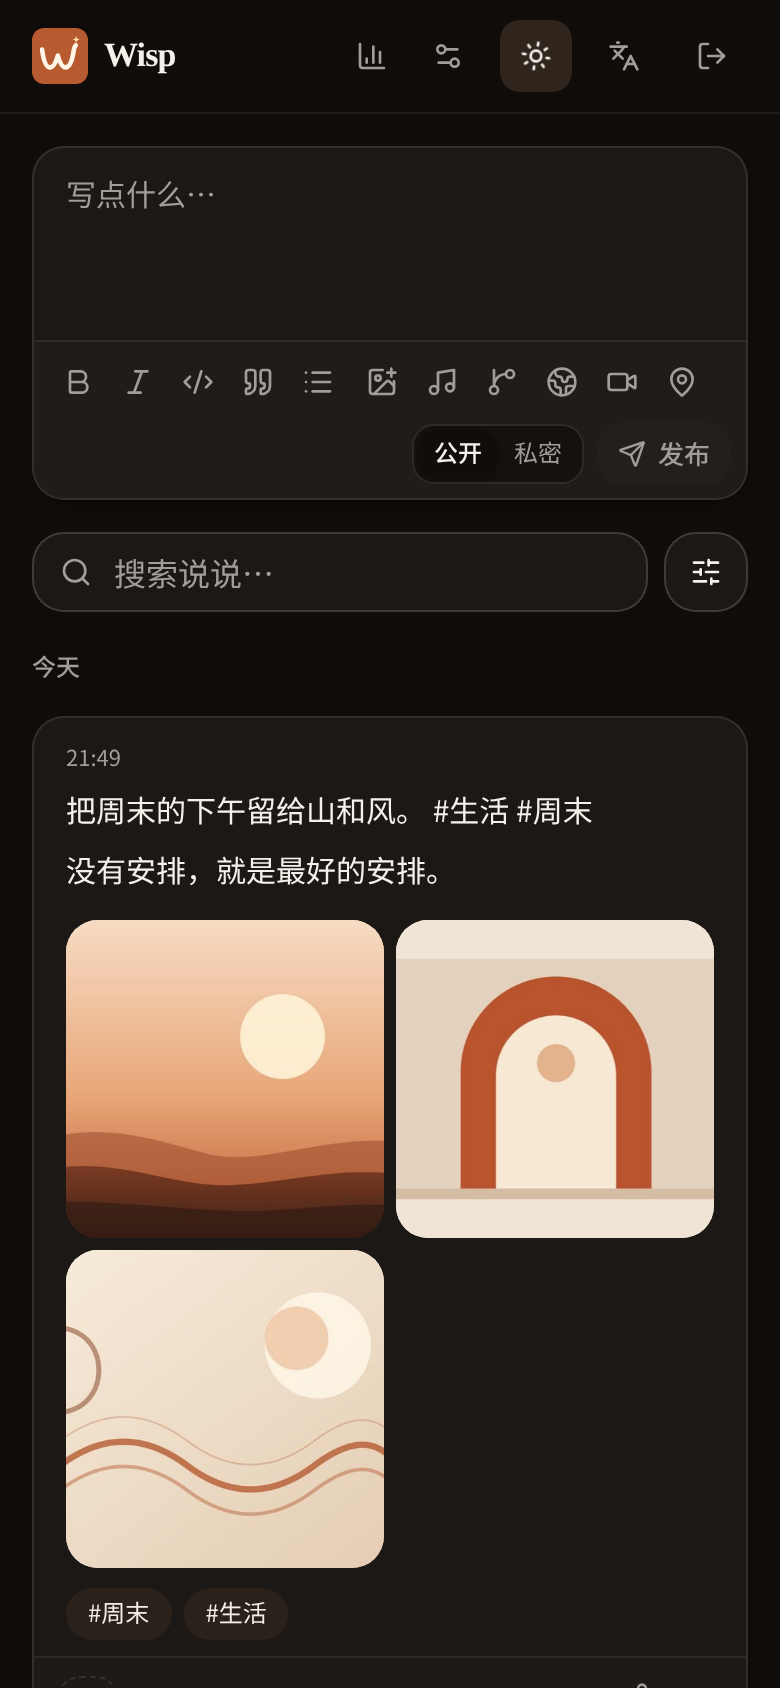
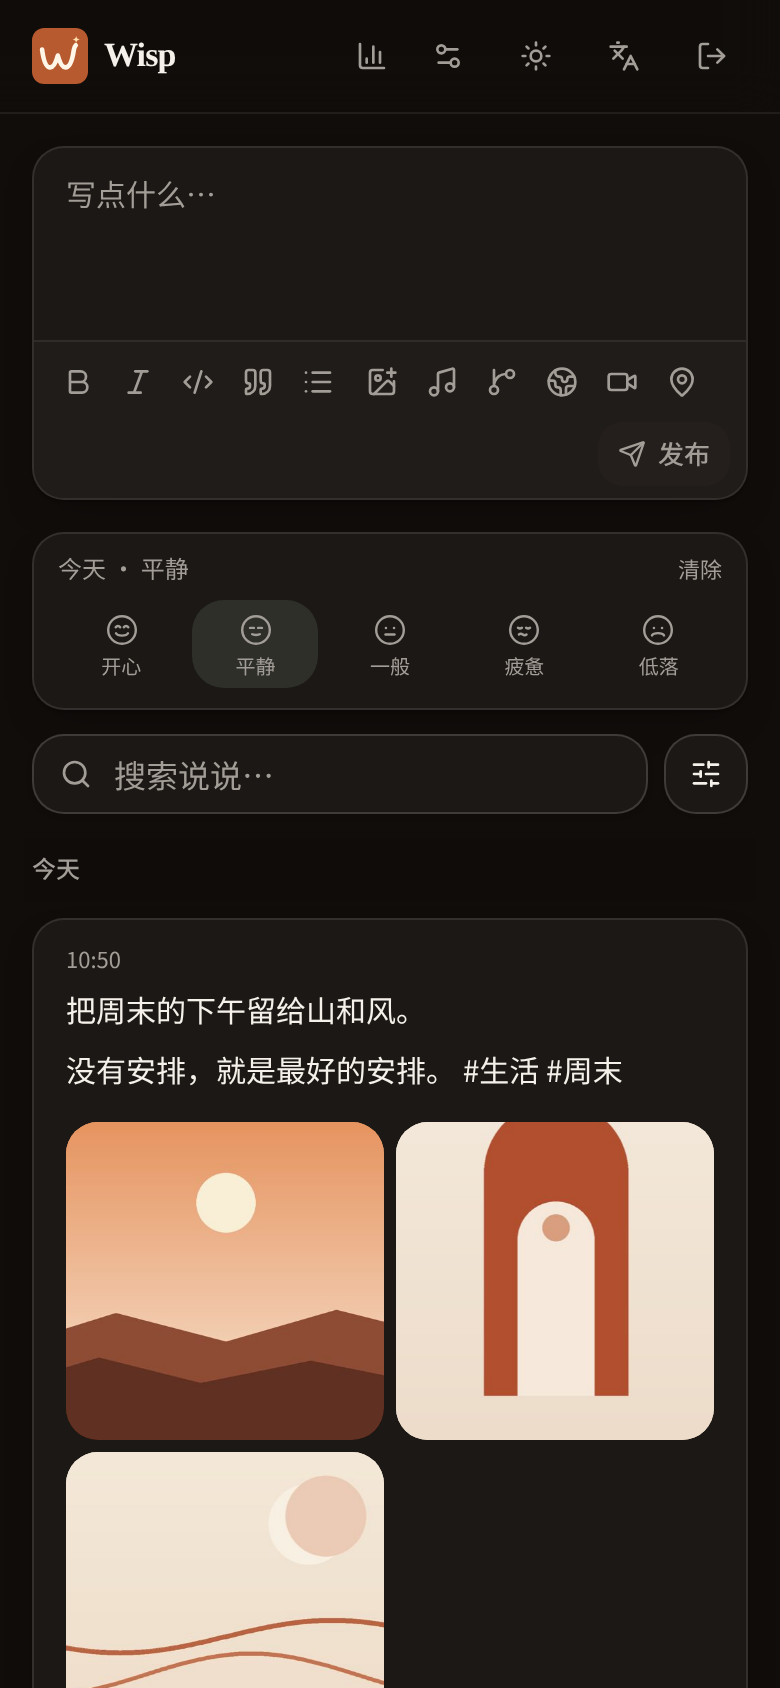
docs: refresh public docs and screenshots for v0.4.0
Rewrite the README around the current product: daily mood, stats tabs, Docker security defaults, mood API examples and updated test commands. Expand the API reference with auth, mood, admin and webhook coverage; document compose hardening and TRUST_PROXIES; fix the stale transactional note in CONTRIBUTING. Regenerate all screenshots from a clean v0.4.0 demo (light, dark, mood and detail) so the removed private toggle no longer appears.

diff --git a/README.md b/README.md
@@ -5,7 +5,7 @@
 <p align="center">
   <a href="https://github.com/lmb666666/wisp/actions/workflows/ci.yml"><img src="https://github.com/lmb666666/wisp/actions/workflows/ci.yml/badge.svg" alt="CI"></a>
   <img src="https://img.shields.io/badge/status-v0.4.0-c96a35" alt="status">
-  <a href="LICENSE"><img src="https://img.shields.io/badge/license-MIT-blue" alt="MIT"></a>
+  <a href="LICENSE"><img src="https://img.shields.io/badge/license-MIT-blue.svg" alt="MIT"></a>
   <img src="https://img.shields.io/badge/Go-1.26-00ADD8?logo=go&logoColor=white" alt="Go 1.26">
   <img src="https://img.shields.io/badge/React-19-149ECA?logo=react&logoColor=white" alt="React 19">
 </p>
@@ -13,24 +13,27 @@
 <h3 align="center">把自己的「说说」放回自己的服务器。</h3>
 
 <p align="center">
-  <strong>3 秒发布</strong> · 单二进制 · 一个 data 目录 · PWA 离线 · API-first · MIT
+  <strong>3 秒发布</strong> · 每日心情 · 单二进制 · 一个 data 目录 · PWA 离线 · API-first · MIT
 </p>
 
-Wisp 是一款单作者、自托管的轻量「说说 / 朋友圈」。没有推荐算法，没有评论区，也没有把数据交给平台的理由。打开网页或安装成 PWA，像发朋友圈一样记录一条想法；图片、音乐、GitHub 仓库、网站和位置会收成干净的卡片，所有内容都留在你自己的服务器上。
+Wisp 是一款单作者、自托管的轻量「说说 / 朋友圈」。没有推荐算法，没有评论区，也没有把数据交给平台的理由。打开网页或安装成 PWA，像发朋友圈一样记录一条想法；图片、音乐、GitHub 仓库、网站和位置会收成干净的卡片。每天还可以用一档心情标记今天，所有内容都留在你自己的服务器上。
 
 <p align="center">
-  <img src="docs/assets/screenshots/home-light.png" width="31%" alt="时间线 · 浅色">
-  <img src="docs/assets/screenshots/home-dark.png" width="31%" alt="时间线 · 深色">
-  <img src="docs/assets/screenshots/post-detail.png" width="31%" alt="扩展卡片">
+  <img src="docs/assets/screenshots/home-light.png" width="45%" alt="时间线 · 浅色">
+  <img src="docs/assets/screenshots/home-dark.png" width="45%" alt="时间线 · 深色">
+</p>
+<p align="center">
+  <img src="docs/assets/screenshots/mood.png" width="45%" alt="每日心情 · 月度补记与年度概览">
+  <img src="docs/assets/screenshots/post-detail.png" width="45%" alt="扩展卡片">
 </p>
 
 ## 为什么是 Wisp
 
-- **像发朋友圈一样轻。** 移动端优先，服务端渲染 Markdown；草稿自动留在浏览器，离线也能写完，联网后自动补发。
-- **数据真的属于你。** SQLite 单文件 + 本地媒体目录；内置内容包导出、定时数据库快照和媒体库清理。
+- **像发朋友圈一样轻。** 移动端优先，服务端渲染 Markdown；草稿自动留在浏览器，离线也能写完，联网后自动补发。每天还能顺手记录一档心情。
+- **数据真的属于你。** SQLite 单文件 + 本地媒体目录；内容包（含原图、卡片与心情）可导出，定时数据库快照和媒体库清理内置。
 - **一个二进制就够。** 前端通过 `go:embed` 打进 Go 服务，部署不需要 Node、反向代理也能先跑起来。
 - **少即是多。** 单作者、无评论、无多用户、无联邦。把「记录」这件事做好，而不是把设置页塞满。
-- **对开发者友好。** REST API、作用域 PAT、OpenAPI、RSS、Webhook 和官方 CLI 都是一等能力。
+- **对开发者友好。** REST API、作用域 PAT、OpenAPI、RSS、Webhook 和官方 CLI 都是一等能力；心情同样有 API。
 
 ## 功能
 
@@ -38,7 +41,8 @@ Wisp 是一款单作者、自托管的轻量「说说 / 朋友圈」。没有推
 - Markdown 编辑器（TipTap），粘贴 / 拖拽图片自动压缩上传
 - 草稿、离线队列、PWA 分享菜单直达发布
 - 时间线按日分组、图片九宫格、blurhash 占位、lightbox
-- 每日心情：一天一条 5 档记录，首页一键打卡、日期头展示、年度心情历
+- 每日心情：一天一条 5 档，首页一键记录，日期头回看，访客可见带日期的最近心情
+- 统计：概览（站点 + 今年心情）/ 动态（发布热力图 + 归档）/ 心情（月度补记 + 年度概览）/ 标签
 - 标签聚合、全文搜索、日期 × 多标签组合筛选
 - 浅色 / 深色主题，中英文界面，Passkey 登录
 
@@ -50,14 +54,24 @@ Wisp 是一款单作者、自托管的轻量「说说 / 朋友圈」。没有推
 
 **整理与运维**
 - 标签重命名、合并、删除；媒体库筛选、占用统计、无主文件清理
-- 内容包（Wisp Capsule）导出 / 导入，带原图与扩展卡片
+- 内容包（Wisp Capsule）导出 / 导入，带原图、扩展卡片与心情
 - 自动数据库备份（默认每日一份、保留 7 份）、站点概览、Webhook 通知
 - 迁移前自动快照；从 Memos / Moments / Ech0 / Wisp 导入
 
 **开放能力**
-- `GET /api/v1/posts` 等完整 REST API；read / write 作用域 PAT
+- 完整 REST API；`read` / `read,write` 作用域 PAT
 - OpenAPI 描述与 Swagger UI（`WISP_ENABLE_SWAGGER=true`）
 - RSS 2.0 全量与按标签订阅；官方 `wisp-cli` 随 release 分发
+
+## 每日心情
+
+一天一条，固定 5 档：**开心 / 平静 / 一般 / 疲惫 / 低落**。
+
+- 首页一键记录，改 / 清即时生效，失败自动回滚
+- 时间线日期头显示当天心情；今天由顶部心情条承担，避免重复
+- 统计页「心情」可按月补记、查看年度概览与分布
+- 访客看到带日期的「最近心情」，不会把跨时区日期误称为「今天」
+- 通过 API、Webhook 与内容包和站点数据一起流转
 
 ## 快速开始
 
@@ -78,8 +92,10 @@ docker compose up -d --build
 
 打开你设置的 `WISP_PUBLIC_URL`（本地为 `http://localhost:8080`），按首启向导创建站点所有者。数据会持久化在 `./data`。
 
+> 镜像以非 root 运行；compose 默认只读根文件系统、`/tmp` 内存盘、`cap_drop: ALL` 与 `no-new-privileges`。
+> 数据目录必须可被容器用户写入，详见 [docs/DEPLOY.md](docs/DEPLOY.md#数据目录权限绑定挂载必读)。
+>
 > 发布后也可以直接使用镜像：`docker compose pull && docker compose up -d`。
-> 更多反向代理、权限、恢复说明见 [docs/DEPLOY.md](docs/DEPLOY.md)。
 
 ### 二进制
 
@@ -139,10 +155,15 @@ curl -X POST https://wisp.example.com/api/v1/posts \
   -H "Authorization: Bearer wpat_xxx" \
   -H "Content-Type: application/json" \
   -d '{"content_md":"今天也在好好生活。 #日记","visibility":"public"}'
+
+curl -X PUT https://wisp.example.com/api/v1/moods/2026-11-08 \
+  -H "Authorization: Bearer wpat_xxx" \
+  -H "Content-Type: application/json" \
+  -d '{"mood":"calm"}'
 ```
 
-- 时间线 / 搜索 / 标签 / 统计 / RSS：公开读取
-- 发帖 / 编辑 / 删除：会话或 `read,write` PAT
+- 时间线 / 搜索 / 标签 / 心情 / 统计 / RSS：公开读取
+- 发帖 / 编辑 / 删除 / 心情写入：会话或 `read,write` PAT
 - 导入 / 备份 / 媒体库 / 站点设置：仅会话（Web 管理端）
 - OpenAPI：`/swagger/openapi.yaml`（开启 Swagger 后）
 
@@ -156,7 +177,7 @@ wisp-cli -url https://wisp.example.com -token wpat_xxx list -n 5
 ## 数据与迁移
 
 - **整站备份**：设置 → 数据 → 自动备份 / 下载快照
-- **可携带归档**：设置 → 数据 → 导出内容包（Markdown + 原图 + 卡片）
+- **可携带归档**：设置 → 数据 → 导出内容包（Markdown + 原图 + 卡片 + 心情）
 - **从旧应用迁移**：设置 → 数据 → 导入旧数据，支持 Memos、Moments、Ech0 与 Wisp capsule
 
 迁移来源、内容包格式与限制见 [docs/MIGRATION.md](docs/MIGRATION.md)。
@@ -177,8 +198,8 @@ go test -tags load -run TestLoad10k ./internal/load/   # 万帖压测
 pnpm --dir web test
 pnpm --dir web typecheck
 pnpm --dir web lint
-pnpm --dir web exec playwright test                    # 需要先起一个已初始化的实例
-python3 scripts/full_matrix.py                         # 全功能验收矩阵
+pnpm --dir web exec playwright test                    # 需要已初始化实例；Swagger 用例需 WISP_ENABLE_SWAGGER=true
+python3 scripts/full_matrix.py                         # 全功能验收矩阵（默认 :18200 空库实例）
 ```
 
 > 本地跑 E2E / 矩阵时建议给测试实例设置 `WISP_AUTH_RATE_LIMIT=1000`，
@@ -188,9 +209,11 @@ python3 scripts/full_matrix.py                         # 全功能验收矩阵
 
 | 文档 | 内容 |
 |---|---|
-| [docs/DEPLOY.md](docs/DEPLOY.md) | 部署、反向代理、备份恢复、权限 |
-| [docs/API.md](docs/API.md) | REST API、PAT、分页与示例 |
+| [docs/DEPLOY.md](docs/DEPLOY.md) | 部署、反向代理、权限、备份恢复 |
+| [docs/API.md](docs/API.md) | REST API、PAT、分页、心情与 Webhook |
 | [docs/MIGRATION.md](docs/MIGRATION.md) | 从 Memos / Moments / Ech0 / Wisp 迁移；内容包格式与限制 |
+| [CONTRIBUTING.md](CONTRIBUTING.md) | 开发环境、代码结构、测试与提交约定 |
+| [SECURITY.md](SECURITY.md) | 安全策略与私下报告方式 |
 | [CHANGELOG.md](CHANGELOG.md) | 版本记录 |
 
 ## 安全

diff --git a/CONTRIBUTING.md b/CONTRIBUTING.md
@@ -39,6 +39,7 @@ Echo v4 ── 会话 / PAT / CSRF / 限流 / CORS
 | `cmd/wisp` / `cmd/wisp-cli` | 服务入口；PAT 驱动的官方 CLI |
 | `internal/http` | 路由、中间件、DTO 映射、OG/RSS/静态资源 |
 | `internal/service` | 帖子领域逻辑：渲染、标签、附件、卡片解析 |
+| `internal/mood` | 每日心情取值、日期校验（API / 导入共用） |
 | `internal/db` / `internal/repo` | SQLite 打开、WAL、goose 迁移与快照；sqlc 生成代码（不要手改） |
 | `internal/media` | 上传管线、缩略图、Storage 接口与 local / S3 / Lsky 驱动 |
 | `internal/unfurl` | B 站 / YouTube / Meting / GitHub / OG 解析 |
@@ -51,7 +52,7 @@ Echo v4 ── 会话 / PAT / CSRF / 限流 / CORS
 
 安全基线（改动时不要破坏）：密码 argon2id；PAT 只存 SHA-256；Cookie 写请求校验 Origin；上传限制大小与 MIME、文件名/键由服务端生成；unfurl 对用户 URL 做 SSRF 防护；导入限制解压总量与路径穿越。
 
-已知取舍：单进程单写者，不支持多实例共享同一个 SQLite；发帖/导入未整体包在一个 DB 事务内，极端失败可能留下可由媒体库清理的孤儿文件；切换存储驱动后旧驱动对象的删除只能尽力而为。
+已知取舍：单进程单写者，不支持多实例共享同一个 SQLite；导入未整体包在一个 DB 事务内，极端失败可能留下可由媒体库清理的孤儿文件；切换存储驱动后旧驱动对象的删除只能尽力而为。
 
 ## 提交前检查
 
@@ -68,9 +69,10 @@ pnpm --dir web build
 涉及前端交互的改动，请跑 Playwright；涉及 API/导入/备份的改动，请跑验收矩阵：
 
 ```bash
-# 终端 1：全新实例
+# 终端 1：全新实例（Swagger 用例需要 WISP_ENABLE_SWAGGER=true）
 WISP_PORT=18099 WISP_PUBLIC_URL=http://localhost:18099 \
-WISP_DATA_DIR=/tmp/wisp-e2e WISP_API_RATE_LIMIT=1000 ./wisp
+WISP_DATA_DIR=/tmp/wisp-e2e WISP_API_RATE_LIMIT=1000 \
+WISP_AUTH_RATE_LIMIT=1000 WISP_ENABLE_SWAGGER=true ./wisp
 
 # 终端 2
 WISP_URL=http://localhost:18099 pnpm --dir web exec playwright test

diff --git a/docs/DEPLOY.md b/docs/DEPLOY.md
@@ -15,6 +15,7 @@
 | `WISP_READ_TIMEOUT` | `10m` | 整个请求（含上传 body）的读取上限 |
 | `WISP_WRITE_TIMEOUT` | `5m` | 响应写入上限 |
 | `WISP_CORS_ORIGINS` | （空） | 允许跨域调用 API 的来源白名单（逗号分隔，仅 /api/v1，PAT 认证） |
+| `WISP_TRUST_PROXIES` | `false` | 置 `true` 时从 `X-Forwarded-For` 取客户端 IP（限流用）；仅在可信反向代理后开启 |
 | `WISP_METING_API` | （空） | Meting 音乐解析端点（自托管；配置后网易云/QQ 音乐链接自动出音乐卡） |
 | `WISP_GEOCODE_URL` | （空） | Nominatim 兼容端点根地址（如 `https://nominatim.openstreetmap.org`）；配置后位置卡支持搜索与坐标反查，留空则只用地理定位/手填 |
 
@@ -29,7 +30,7 @@ WISP_PUBLIC_URL=https://wisp.example.com \
 docker compose up -d --build
 ```
 
-使用发布镜像（v0.3.1+）：
+使用发布镜像：
 
 ```bash
 mkdir -p data
@@ -38,6 +39,24 @@ WISP_UID="$(id -u)" WISP_GID="$(id -g)" WISP_PUBLIC_URL=https://wisp.example.com
 ```
 
 首次访问会进入首启向导；创建所有者后即可发布。数据、媒体与备份都在 `./data`。
+
+### 容器安全默认
+
+compose 默认以宿主 UID 运行，并启用：
+
+- `read_only: true`：根文件系统只读；只有 `./data` 与 `/tmp` 内存盘可写
+- `tmpfs: /tmp`：临时目录走内存盘
+- `cap_drop: ALL` + `no-new-privileges:true`
+- `stop_grace_period: 30s`：给优雅退出、Webhook 排空与备份收尾留时间
+
+内容包导入的临时文件会落在数据目录，不占用 `/tmp` 内存盘。若自行修改 compose，请保留 `/data` 可写；需要导入 / 上传临时文件时也保留 `/tmp` 可写（或挂载 tmpfs）。
+
+查看日志与状态：
+
+```bash
+docker compose logs -f wisp
+docker compose ps
+```
 
 ## 二进制
 

diff --git a/SECURITY.md b/SECURITY.md
@@ -2,7 +2,7 @@
 
 ## 支持的版本
 
-Wisp 目前处于 `0.x` 阶段，安全修复只保证落在最新版本与 `main` 分支。旧版本请先升级再报告。
+Wisp 目前处于 `0.x` 阶段，安全修复只保证落在最新版本（当前 `0.4.x`）与 `main` 分支。旧版本请先升级再报告。
 
 ## 私下报告
 
@@ -35,6 +35,7 @@ Wisp 目前处于 `0.x` 阶段，安全修复只保证落在最新版本与 `mai
 Wisp 是单作者自托管软件，安全性也取决于部署方式：
 
 - 生产环境必须使用 HTTPS，并设置正确的 `WISP_PUBLIC_URL`
+- 容器部署保持 compose 默认的只读根文件系统、`cap_drop: ALL` 与 `no-new-privileges`；不要给容器 `privileged`
 - 使用强密码或 Passkey；不要复用其他站点密码
 - 不要公开 `data/`、备份文件或 `.env`
 - 保持 `WISP_ENABLE_SWAGGER=false`（除非确实需要在线调试）

diff --git a/docs/MIGRATION.md b/docs/MIGRATION.md
@@ -2,7 +2,7 @@
 
 ## 从旧应用迁移
 
-入口：**设置 → 数据 → 导入旧数据**。导入结果会显示已导入、跳过（重复）、失败与附件数量。
+入口：**设置 → 数据 → 导入旧数据**。导入结果会显示已导入、跳过（重复）、失败、附件与心情数量。
 
 | 来源 | 上传文件 | 内容 |
 |---|---|---|
